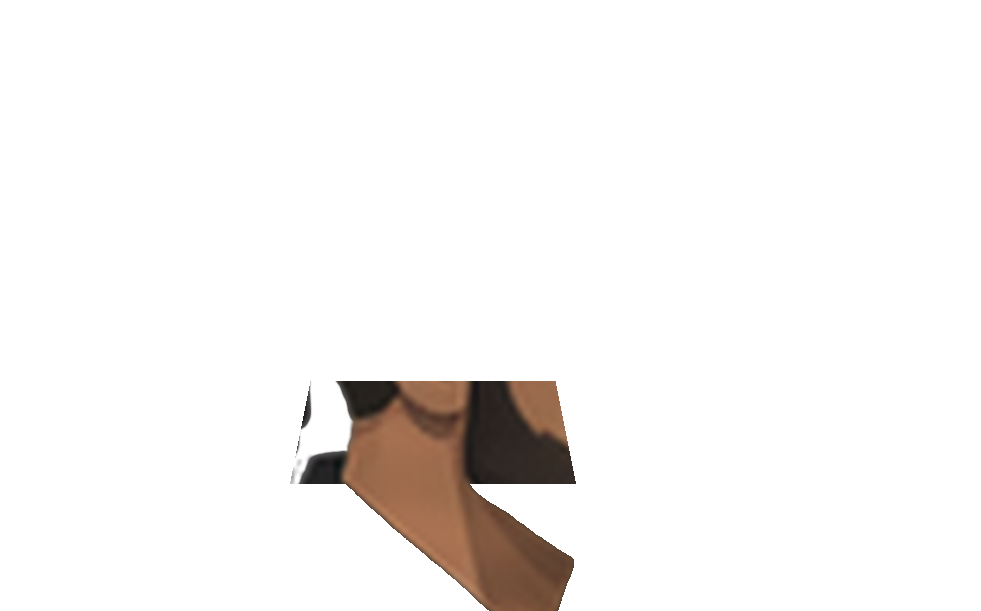
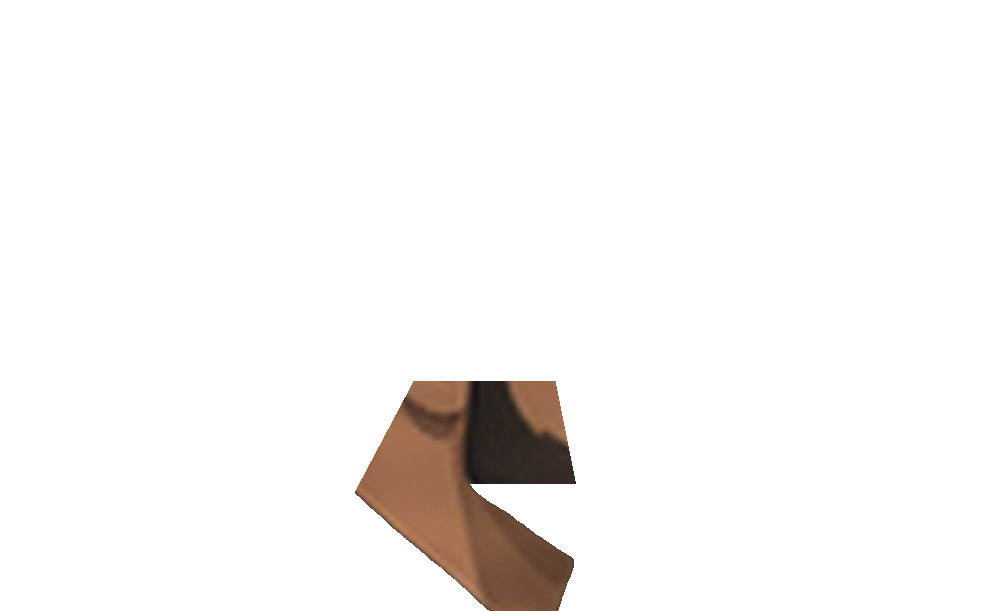
Remove spur behind the ponytail referee's ear
Claude-Session: https://claude.ai/code/session_01BMyqTur5CGsYQhULeeiyXv

Changed region(s): [[0.3058, 0.6219, 0.4281, 0.8085]]

diff --git a/cage/tools/build_head2.py b/cage/tools/build_head2.py
@@ -46,7 +46,7 @@ CFG={
    jaw=[(358,64),(366,76),(380,85),(396,86),(407,87)],
    backN=[(64,345),(84,341),(109,341)],frontN=[(64,383),(84,387),(109,391)],
    eye=(392,52),brow=(0,0),brow2=(0,0),nosef=(0,0),cheek=(0,0),fore=(0,0),lip=(403,70),lid='#c08060',blinkonly=1),
- 'ref2':dict(darkFrom=16,top=13,chin=88,back=618,nose=680,neckTop=59,cut=3,clipX=684,darkcut=1,padL=50,
+ 'ref2':dict(darkFrom=16,ntaper=(30,16),top=13,chin=88,back=618,nose=680,neckTop=59,cut=3,clipX=684,darkcut=1,padL=50,
    jaw=[(629,59),(637,71),(651,80),(667,88),(680,89)],
    backN=[(59,616),(79,612),(104,612)],frontN=[(59,654),(79,658),(104,662)],
    eye=(665,49),brow=(0,0),brow2=(0,0),nosef=(0,0),cheek=(0,0),fore=(0,0),lip=(676,72),lid='#c08060',blinkonly=1),
